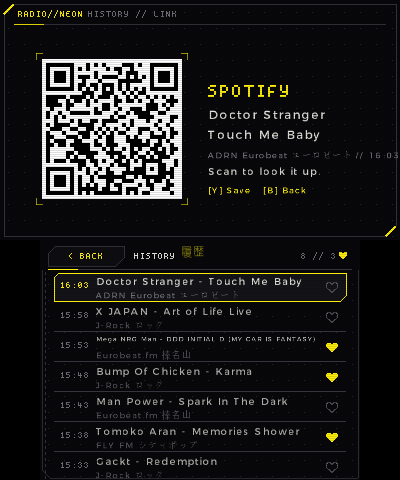
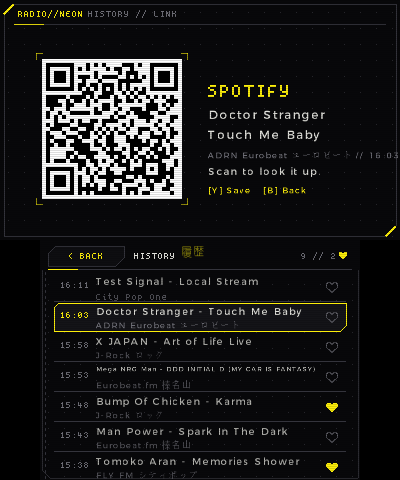
README y CHANGELOG al día con la 1.1.0 final; capturas nuevas (menú, controles y las demás con los botones nuevos)

diff --git a/README.md b/README.md
@@ -14,8 +14,10 @@ Hecho por **VENOMSHiNE** · [Discord](https://discord.com/invite/yVKp8JwV4e) · 
 | Phone page / Página del móvil | Sleep timer / Temporizador | Low battery / Batería baja |
 | ![Options](docs/screenshots/07_options.png) | ![About](docs/screenshots/08_about_qr.png) | ![Network retry](docs/screenshots/09_network_retry.png) |
 | Options / Opciones | About + QR / Acerca de | Network retry / Reintento |
-| ![Boot](docs/screenshots/01_boot_opendsp.png) | ![Red accent](docs/screenshots/10_accent_red.png) | |
-| OpenDSP boot / Arranque | Red accent / Rojo | |
+| ![Menu](docs/screenshots/12_menu.png) | ![Controls](docs/screenshots/13_controls.png) | ![Red accent](docs/screenshots/10_accent_red.png) |
+| Menu / Menú | Controls / Controles | Red accent / Rojo |
+| ![Boot](docs/screenshots/01_boot_opendsp.png) | | |
+| OpenDSP boot / Arranque | | |
 
 <sub>Capturas de la 1.1.0 en Azahar con la interfaz en inglés; el audio es una emisora de prueba local («Test Signal») · 1.1.0 screenshots in Azahar, English UI; the audio is a local test stream. Más / more: [docs/screenshots](docs/screenshots) · 1.0.0: [docs/screenshots-1.0.0](docs/screenshots-1.0.0)</sub>
 
@@ -29,16 +31,18 @@ Radio Neon convierte tu 3DS en una radio de música japonesa: J-POP, anime, city
 
 ### Funciones
 
-- **25 emisoras** listas para escuchar, con su género en la lista: J-POP, anime, Vocaloid, city pop, eurobeat, doujin, música de videojuegos retro, hip-hop, J-rock, visual kei, jazz, clásica, FM comunitarias japonesas y noticias. Puedes añadir las tuyas en `stations.txt`.
+- **25 emisoras** listas para escuchar, con su género en la lista: J-POP, anime, Vocaloid, city pop, eurobeat, doujin, música de videojuegos retro, hip-hop, J-rock, visual kei, house de Tokio, jazz, clásica, FM comunitarias japonesas y noticias. Puedes añadir las tuyas en `stations.txt`.
 - **MP3 y AAC / AAC+ (HE-AAC)** por `http://` y `https://`, con el título de la canción en directo (metadatos ICY, también en japonés).
 - **HTTPS verificado** con los certificados raíz de Mozilla incluidos en la app.
 - **Nunca se rinde:** si se corta la emisora o el Wi-Fi, vuelve a conectar sola. Mientras tanto te dice el motivo real (sin Wi-Fi, el servidor no responde, HTTP 404…) y cuánto falta para el siguiente intento.
 - **Favoritas** (Y o tocando la estrella) y **aleatorio** (L o su botón): NEXT salta a una emisora al azar sin repetir las últimas.
-- **Historial de canciones** (↓ o el botón del centro): se apuntan solas las que suenan al menos 30 s. **B** guarda con ♥ la que está sonando, con un bip-bip. Desde el historial, un QR abre en el móvil una página con todas las canciones y botones de Spotify, YouTube Music y Copiar (misma Wi-Fi o el hotspot del móvil; la página solo se puede ver, no toca nada de la consola). Con A, el QR pasa a ser la búsqueda en Spotify de la canción elegida.
+- **Historial de canciones** (X o el botón del centro): se apuntan solas las que suenan al menos 30 s. **B** guarda con ♥ la que está sonando, con un bip-bip (y otra vez B la quita). En el menú, **Guardadas** muestra solo las del ♥. Desde el historial, un QR abre en el móvil una página con todas las canciones y botones de Spotify, YouTube y Copiar (misma Wi-Fi o el hotspot del móvil; la página solo se puede ver, no toca nada de la consola). Con A, el QR pasa a ser la búsqueda en Spotify de la canción elegida.
 - **Aviso de batería baja**, sin molestar: un bip suave cada 5 % desde el 40 %, dos bips cada 2 % desde el 20 %, al 10 % la radio se pausa y te avisa, y al 3 % se bloquea con un cartel fijo hasta que conectes el cargador. Con el cargador puesto no suena nada.
 - **Temporizador de apagado** (R o su botón): 15, 30, 60, 90 minutos o los que quieras; la radio baja el volumen poco a poco y se para sola. Con la tapa cerrada, la consola se va a dormir.
 - **Osciloscopio y espectro** del audio que suena, con detector de ritmo, y **barra de volumen** que sigue al deslizador de la consola.
 - **Tapa cerrada + auriculares:** sigue sonando con las pantallas apagadas. Si quitas los auriculares, se para; nunca suena por los altavoces con la tapa cerrada.
+- **Modo ahorro** (opcional, en Opciones): con una emisora sonando, tras 20 s sin tocar nada se apagan las dos pantallas y la radio sigue. Cualquier botón o tocar la pantalla las enciende (esa pulsación no hace nada más).
+- **Controles** en el menú: la consola dibujada con lo que hace cada botón; si pulsas uno, se ilumina.
 - Pulsar **HOME**, cerrar la tapa y volver: la radio vuelve a conectar sola.
 - Siete colores de acento, scanlines, glitch RGB, y arranque con la última emisora.
 - Español, inglés y japonés (o el idioma de la consola).
@@ -64,13 +68,14 @@ Necesitas una 3DS / 2DS / New 3DS con CFW (Luma3DS) y Wi-Fi configurado.
 
 | Pantalla | Botones |
 |---|---|
-| En todas | **START** salir (pregunta antes) · **L / R** emisora anterior / siguiente (salvo en la principal) |
-| Principal | **A** reproducir / parar · **Y** favorita · **X** menú · **SELECT** lista de emisoras · **← / →** anterior / siguiente · **L** aleatorio · **R** temporizador · **↓** historial · **B** guardar la canción que suena |
-| Lista de emisoras | **↑ / ↓** moverse · **← / →** pasar página · **A** reproducir · **Y** favorita · **B** volver · **SELECT** recargar `stations.txt` |
-| Menú | **↑ / ↓** · **A** abrir · **B** o **X** cerrar |
+| En todas | **START** abre / cierra el menú · **START mantenido 2 s** salir (pregunta antes) · **X** abre / cierra el historial · **SELECT** abre / cierra la lista de emisoras · **L / R** emisora anterior / siguiente (salvo en la principal) |
+| Principal | **A** reproducir / parar · **Y** favorita · **← / →** anterior / siguiente · **L** aleatorio · **R** temporizador · **B** guardar / quitar la canción que suena |
+| Lista de emisoras | **↑ / ↓** moverse · **← / →** pasar página · **A** reproducir · **Y** favorita · **B** volver |
+| Menú | **↑ / ↓** · **A** abrir · **B** cerrar |
 | Opciones | **↑ / ↓** · **← / →** o **A** cambiar · **B** volver |
 | Temporizador | **↑ / ↓** · **A** elegir · **B** volver |
 | Historial | **↑ / ↓** moverse · **← / →** pasar página · **A** QR de Spotify de la canción · **Y** guardar / quitar ♥ · **B** volver |
+| Controles | cualquier botón se ilumina en el dibujo · **B** volver |
 | Acerca de | **B** volver |
 
 Todo se puede hacer también con la pantalla táctil. El volumen se controla con el deslizador de la consola.
@@ -112,16 +117,18 @@ Radio Neon turns your 3DS into a radio for Japanese music: J-POP, anime, city po
 
 ### Features
 
-- **25 stations** ready to play, with their genre in the list: J-POP, anime, Vocaloid, city pop, eurobeat, doujin, retro game music, hip-hop, J-rock, visual kei, jazz, classical, Japanese community FM and news. Add your own in `stations.txt`.
+- **25 stations** ready to play, with their genre in the list: J-POP, anime, Vocaloid, city pop, eurobeat, doujin, retro game music, hip-hop, J-rock, visual kei, Tokyo house, jazz, classical, Japanese community FM and news. Add your own in `stations.txt`.
 - **MP3 and AAC / AAC+ (HE-AAC)** over `http://` and `https://`, with the live song title (ICY metadata, Japanese included).
 - **Verified HTTPS** with the Mozilla root certificates bundled in the app.
 - **Never gives up:** if the stream or the Wi-Fi drops, it reconnects by itself. Meanwhile it shows the real reason (no Wi-Fi, server not responding, HTTP 404…) and a countdown to the next try.
 - **Favourites** (Y or tap the star) and **shuffle** (L or its button): NEXT jumps to a random station without repeating the last ones.
-- **Song history** (↓ or the middle button): songs that play for at least 30 s are added by themselves. **B** saves the one playing with a ♥ and a double beep. From the history, a QR code opens a page on your phone with every song and Spotify, YouTube Music and Copy buttons (same Wi-Fi or the phone's hotspot; the page is read only). With A, the QR code becomes the Spotify search for the selected song.
+- **Song history** (X or the middle button): songs that play for at least 30 s are added by themselves. **B** saves the one playing with a ♥ and a double beep (B again removes it). In the menu, **Saved songs** shows only the ♥ ones. From the history, a QR code opens a page on your phone with every song and Spotify, YouTube and Copy buttons (same Wi-Fi or the phone's hotspot; the page is read only). With A, the QR code becomes the Spotify search for the selected song.
 - **Low battery warning**, never intrusive: a soft beep every 5 % from 40 %, two beeps every 2 % from 20 %, at 10 % the radio pauses and tells you, and at 3 % it locks behind a fixed notice until you plug in the charger. Nothing while charging.
 - **Sleep timer** (R or its button): 15, 30, 60, 90 minutes or any time you like; the radio fades out and stops by itself. With the lid closed, the console then goes to sleep.
 - **Oscilloscope and spectrum** of what is playing, with a beat detector, and a **volume bar** that follows the console's slider.
 - **Lid closed + headphones:** keeps playing with the screens off. Unplug the headphones and it stops; it never plays through the speakers with the lid closed.
+- **Battery saver** (optional, in Options): while a station plays, after 20 s without touching anything both screens go dark and the radio keeps going. Any button or a touch lights them again (that press does nothing else).
+- **Controls** in the menu: the console drawn with what each button does; press one and it lights up.
 - Press **HOME**, or close the lid and come back: the radio reconnects by itself.
 - Seven accent colours, scanlines, RGB glitch, and start with the last station.
 - Spanish, English and Japanese (or the console language).
@@ -147,13 +154,14 @@ You need a 3DS / 2DS / New 3DS with CFW (Luma3DS) and Wi-Fi set up.
 
 | Screen | Buttons |
 |---|---|
-| Everywhere | **START** exit (asks first) · **L / R** previous / next station (except on the main screen) |
-| Main | **A** play / stop · **Y** favourite · **X** menu · **SELECT** station list · **← / →** previous / next · **L** shuffle · **R** sleep timer · **↓** song history · **B** save the song that is playing |
-| Station list | **↑ / ↓** move · **← / →** page · **A** play · **Y** favourite · **B** back · **SELECT** reload `stations.txt` |
-| Menu | **↑ / ↓** · **A** open · **B** or **X** close |
+| Everywhere | **START** opens / closes the menu · **hold START 2 s** exit (asks first) · **X** opens / closes the song history · **SELECT** opens / closes the station list · **L / R** previous / next station (except on the main screen) |
+| Main | **A** play / stop · **Y** favourite · **← / →** previous / next · **L** shuffle · **R** sleep timer · **B** save / unsave the song that is playing |
+| Station list | **↑ / ↓** move · **← / →** page · **A** play · **Y** favourite · **B** back |
+| Menu | **↑ / ↓** · **A** open · **B** close |
 | Options | **↑ / ↓** · **← / →** or **A** change · **B** back |
 | Sleep timer | **↑ / ↓** · **A** choose · **B** back |
 | Song history | **↑ / ↓** move · **← / →** page · **A** Spotify QR of the song · **Y** save / unsave ♥ · **B** back |
+| Controls | any button lights up in the drawing · **B** back |
 | About | **B** back |
 
 Everything also works with the touch screen. Volume is the console's slider.

diff --git a/CHANGELOG.md b/CHANGELOG.md
@@ -8,6 +8,7 @@
 - La lista de emisoras tiene su propio cursor: moverse ya no cambia la emisora que se ve fuera.
 - B en la lista vuelve a donde se abrió (pantalla principal o menú).
 - La rayita de la tarjeta solo aparece con la emisora en vivo.
+- Debajo del nombre de la emisora queda solo la línea fina.
 - «ESPAÑOL» sale con la misma fuente que el resto en el selector de idioma.
 - Con la tapa cerrada, si la emisora falla del todo, la consola duerme en vez de quedarse despierta a oscuras.
 - Un 404 ya no mete la página de error en el audio; las URL que son una web o una lista `.m3u`/`.pls` se avisan.
@@ -19,14 +20,19 @@
 - La estrella de favorita tiene su propia columna en la tarjeta, con «FAV» debajo.
 
 ### Novedades
-- **Historial de canciones** (↓ o el botón del centro), con una página para el móvil (QR, misma Wi-Fi o hotspot) con botones de Spotify, YouTube Music y Copiar, y QR de Spotify de cada canción. **B** guarda con ♥ la que suena, con un bip-bip al estilo del sonido del HOME.
+- **Historial de canciones** (X o el botón del centro), con una página para el móvil (QR, misma Wi-Fi o hotspot) con botones de Spotify, YouTube y Copiar, y QR de Spotify de cada canción. **B** guarda con ♥ la que suena, con un bip-bip al estilo del sonido del HOME («GUARDADA»), y otra vez B la quita («ELIMINADA»). La página tiene al pie GitHub, Discord, Ko-fi y la licencia.
+- **Menú con scroll**: Todas las emisoras, Favoritas, Historial, Guardadas (solo las del ♥), Opciones, Controles, Acerca de y Salir.
+- **Controles**: la consola (New 3DS XL) dibujada como un esquema, con una línea desde cada botón hasta lo que hace; si pulsas uno, se ilumina.
+- **Modo ahorro** (Opciones, apagado de serie): tras 20 s sin tocar nada con una emisora sonando se apagan las pantallas y la radio sigue; cualquier botón o tocar la pantalla las enciende.
 - **Aviso de batería baja**: bips cortos desde el 40 % y el 20 %, pausa con aviso al 10 %, y al 3 % la radio queda bloqueada con un cartel fijo hasta conectar el cargador.
 - **Temporizador de apagado** (botón o R): 15, 30, 60, 90 minutos o personalizado, con fundido de 10 s al final.
 - **Aleatorio** en la pantalla principal (botón o L): NEXT salta a una emisora al azar.
 - **Barra de volumen** en la pantalla de arriba: sigue al deslizador de la consola y muestra el % al moverlo.
-- Lista de emisoras renovada: más radios de Japón (FMかほく, WREP, Gotanno FM, Retro PC Game Music…), dos de eurobeat, FLY FM de city pop, J-Rock, Visual Kei y VocaloPlus!. Si tu `stations.txt` era la lista de serie sin cambios, se actualiza sola y la anterior queda en `stations.old.txt`.
+- Lista de emisoras renovada: más radios de Japón (FMかほく, WREP, Gotanno FM, Retro PC Game Music, Justplay de Shibuya, Moon Mission de house de Tokio…), dos de eurobeat, FLY FM de city pop, J-Rock, Visual Kei, J Pop y VocaloPlus!. Si tu `stations.txt` era la lista de serie sin cambios, se actualiza sola y la anterior queda en `stations.old.txt`.
 - Género de cada emisora en la lista y en favoritas (`Nombre | URL | Género` en `stations.txt`).
-- SELECT abre la lista de emisoras.
+- **START** abre y cierra el menú (mantenido 2 s, salir), **X** el historial y **SELECT** la lista de emisoras.
+- La página del móvil carga entera en la consola real (antes se cortaba la respuesta al cerrar la conexión) y no le quita turno a la emisora.
+- Las emisoras de bitrate alto ya no se entrecortan: el colchón de audio va según el bitrate (3 s al empezar y 4 s tras un corte).
 - HTTPS con verificación de certificados (raíces de Mozilla).
 - La red se reintenta sola sin límite y muestra el motivo real y la cuenta atrás.
 - `net.log` en la SD para diagnosticar.
